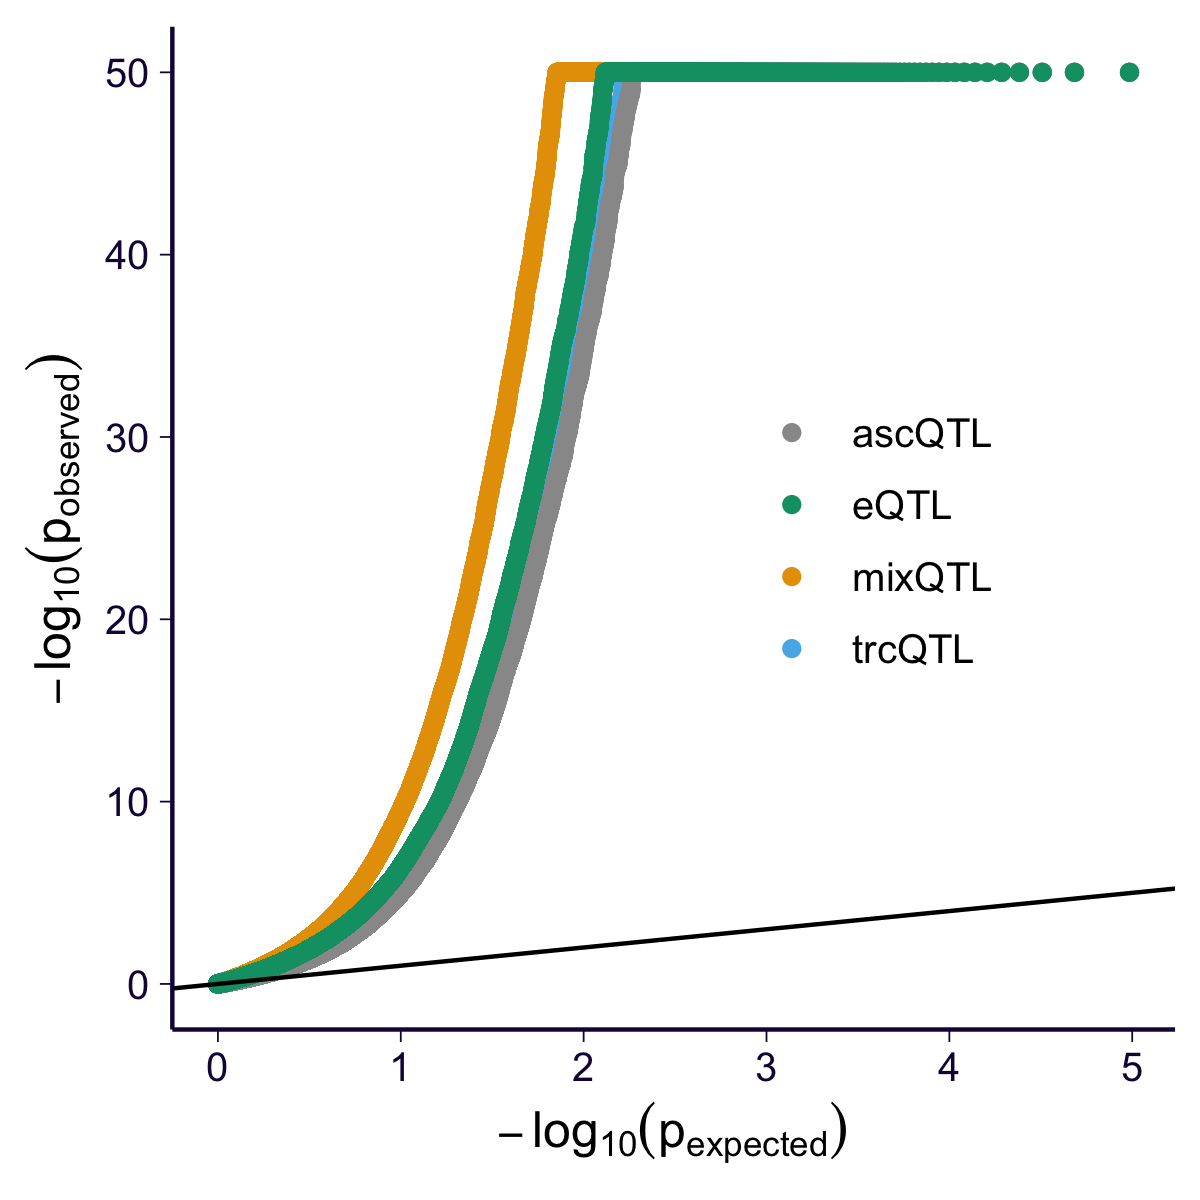
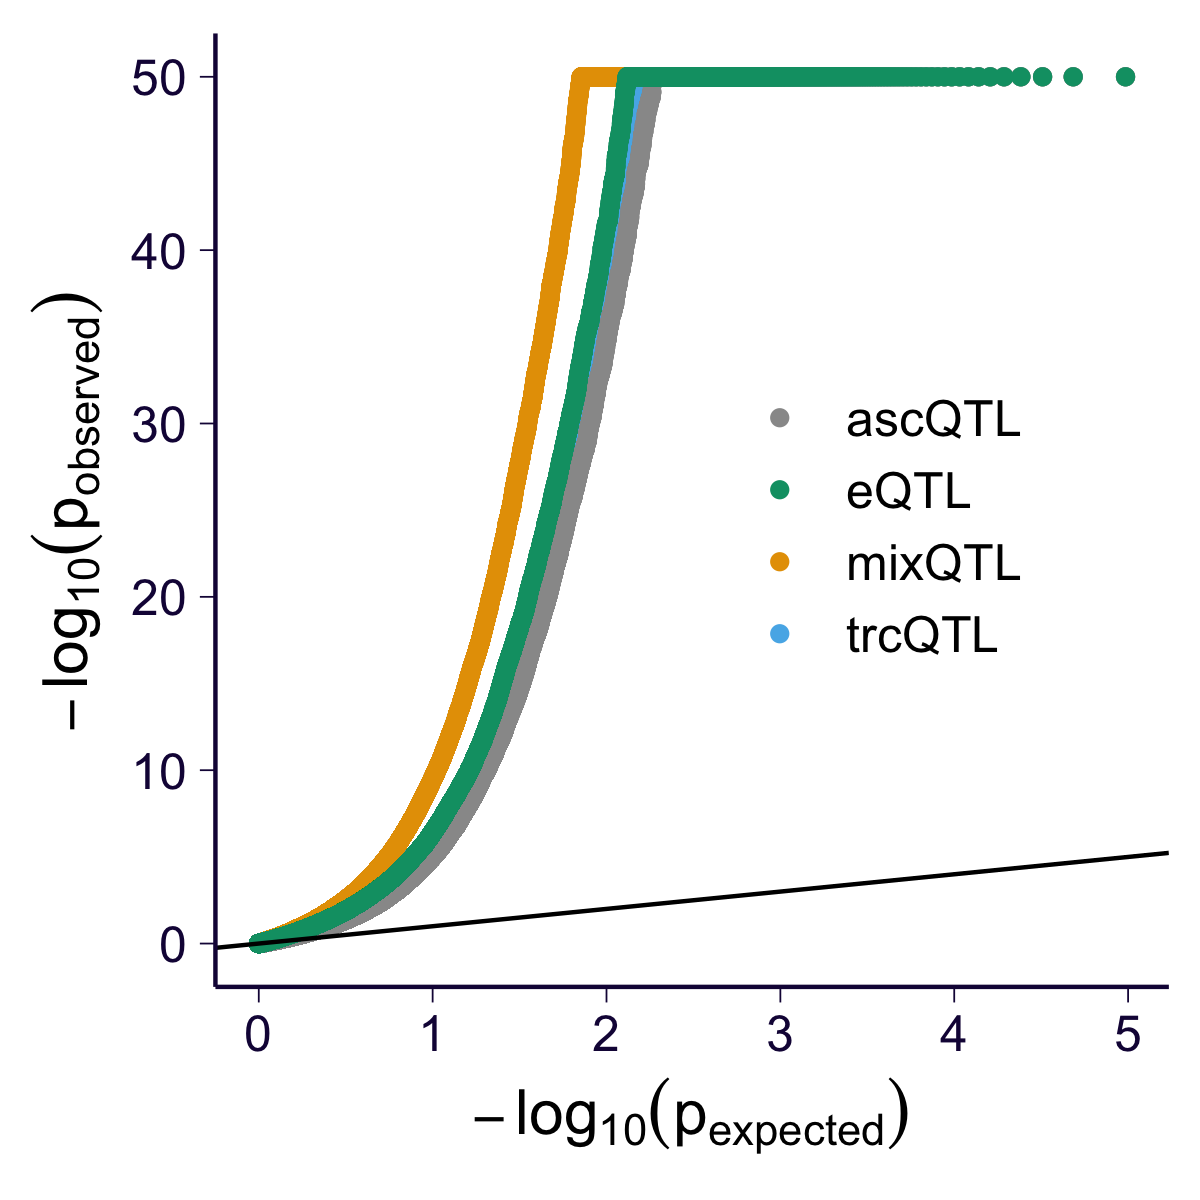
updated eqtlgen plots so that they used eqtl z-score rather than t-stat

diff --git a/docs/gtex_v8_mixqtl_eqtlgen.html b/docs/gtex_v8_mixqtl_eqtlgen.html
@@ -377,9 +377,10 @@ div.tocify {
 <pre class="r"><code>rm(list = ls())
 library(SilverStandardPerformance)  # for ROC/PR plotting
 library(ggplot2)
-theme_set(theme_bw(base_size = 12))
+theme_set(theme_bw(base_size = 15))
 library(dplyr)
 library(reshape2)
+library(pander)
 options(stringsAsFactors = FALSE)
 source(&#39;../code/rlib_analysis.R&#39;)
 datadir = &#39;/Users/yanyul/Desktop/mixqtl-pipeline-results/postprocess-mixqtl&#39;
@@ -415,14 +416,45 @@ for(f in names(fnames)) {
 }
 df_clean = df %&gt;% group_by(gene, variant) %&gt;% summarize(nobs = n()) %&gt;% filter(nobs == 4) %&gt;% ungroup()
 df = df %&gt;% filter(paste(gene, variant) %in% paste(df_clean$gene, df_clean$variant))
-# df$pval[df$method == &#39;metaQTL&#39;] = df$pval[df$method == &#39;metaQTL&#39;]</code></pre>
+# df$pval[df$method == &#39;metaQTL&#39;] = df$pval[df$method == &#39;metaQTL&#39;]
+df %&gt;% group_by(method) %&gt;% summarize(nobs = n()) %&gt;% pander</code></pre>
+<table style="width:25%;">
+<colgroup>
+<col width="12%" />
+<col width="12%" />
+</colgroup>
+<thead>
+<tr class="header">
+<th align="center">method</th>
+<th align="center">nobs</th>
+</tr>
+</thead>
+<tbody>
+<tr class="odd">
+<td align="center">ascQTL</td>
+<td align="center">96660</td>
+</tr>
+<tr class="even">
+<td align="center">eQTL</td>
+<td align="center">96660</td>
+</tr>
+<tr class="odd">
+<td align="center">mixQTL</td>
+<td align="center">96660</td>
+</tr>
+<tr class="even">
+<td align="center">trcQTL</td>
+<td align="center">96660</td>
+</tr>
+</tbody>
+</table>
 </div>
 <div id="qq-plot" class="section level2">
 <h2><span class="header-section-number">1.2</span> QQ-plot</h2>
 <pre class="r"><code>df$pval[is.na(df$pval)] = runif(sum(is.na(df$pval)))
 p = my_qqplot(df$pval, df$method) 
 p = p + geom_abline(intercept = 0, slope = 1)
-p = p + scale_color_manual(values = cbPalette) + theme(legend.position = c(0.7, 0.5), legend.title = element_blank()) + th + theme(aspect.ratio = 1) + ylab(expression(-log[10](p[observed]))) + xlab(expression(-log[10](p[expected])))
+p = p + scale_color_manual(values = cbPalette) + theme(legend.position = c(0.7, 0.5), legend.title = element_blank(), legend.text = element_text(size = 12)) + th + theme(aspect.ratio = 1) + ylab(expression(-log[10](p[observed]))) + xlab(expression(-log[10](p[expected])))
 p$layers[[2]]$aes_params$size = 0.5
 p</code></pre>
 <p><img src="gtex_v8_mixqtl_eqtlgen_files/figure-html/qq-pos-1.png" width="672" /></p>
@@ -436,7 +468,7 @@ for(m in c(&#39;ascQTL&#39;, &#39;trcQTL&#39;, &#39;mixQTL&#39;)) {
   p = my_qqplot(sub$pval, sub$method) 
   p$layers &lt;- c(geom_abline(slope = 1, intercept = 0, color = &#39;lightgray&#39;), p$layers)
   p = p + scale_color_manual(values = cbPalette)
-  p = p + theme(legend.position = c(0.7, 0.5), legend.title = element_blank()) + th + theme(aspect.ratio = 1) + ylab(expression(-log[10](p[observed]))) + xlab(expression(-log[10](p[expected])))
+  p = p + theme(legend.position = c(0.7, 0.5), legend.title = element_blank(), legend.text = element_text(size = 12)) + th + theme(aspect.ratio = 1) + ylab(expression(-log[10](p[observed]))) + xlab(expression(-log[10](p[expected])))
   ggsave(paste0(&#39;../output/gtex-v8-pipeline-eqtl-matrix-with-gene-qc-eqtlgen-positive-&#39;, m, &#39;.png&#39;), p, height = 4, width = 4)
 }</code></pre>
 </div>
@@ -445,17 +477,55 @@ for(m in c(&#39;ascQTL&#39;, &#39;trcQTL&#39;, &#39;mixQTL&#39;)) {
 <pre class="r"><code>dfplot = df %&gt;% mutate(chisq = qchisq(pval, df = 1, lower.tail = F)) %&gt;% select(-pval) %&gt;% filter(method %in% c(&#39;mixQTL&#39;, &#39;eQTL&#39;)) %&gt;% dcast(gene + variant ~ method, value.var = &#39;chisq&#39;)
 p = dfplot %&gt;% ggplot() + 
   geom_point(aes(x = eQTL, y = mixQTL), alpha = 0.5) +
-  geom_point(data = dfplot %&gt;% filter(gene %in% c(&#39;ENSG00000115607&#39;, &#39;ENSG00000145730&#39;)), aes(x = eQTL, y = mixQTL, color = gene)) + 
+  geom_point(data = dfplot %&gt;% filter(gene %in% c(&#39;ENSG00000115607&#39;, &#39;ENSG00000213462&#39;)), aes(x = eQTL, y = mixQTL, color = gene)) + 
   th +
   xlab(expression(paste(chi^2, &#39;(eQTL)&#39;)))+
   ylab(expression(paste(chi^2, &#39;(mixQTL)&#39;))) +
-  theme(legend.position = &#39;bottom&#39;, legend.text = element_text(size = 8)) + 
-  coord_equal()
+  theme(legend.position = c(0.75, 0.15), legend.text = element_text(size = 10), legend.title = element_blank()) + 
+  coord_equal() +
+  geom_abline(slope = 1, intercept = 0, color = &#39;lightgreen&#39;, linetype = 2, size = 1)
 p</code></pre>
 <p><img src="gtex_v8_mixqtl_eqtlgen_files/figure-html/chisq-1.png" width="672" /></p>
-<pre class="r"><code>dfplot %&gt;% summarize(median_eqtl = median(eQTL), median_mixqtl = median(mixQTL)) %&gt;% mutate(ratio = median_mixqtl / median_eqtl)</code></pre>
-<pre><code>##   median_eqtl median_mixqtl    ratio
-## 1     2.58812       3.56258 1.376512</code></pre>
+<pre class="r"><code>dfplot %&gt;% summarize(median_eqtl = median(eQTL), median_mixqtl = median(mixQTL)) %&gt;% mutate(ratio = median_mixqtl / median_eqtl) %&gt;% pander(&#39;ratio of median&#39;)</code></pre>
+<table style="width:53%;">
+<caption>ratio of median</caption>
+<colgroup>
+<col width="19%" />
+<col width="22%" />
+<col width="11%" />
+</colgroup>
+<thead>
+<tr class="header">
+<th align="center">median_eqtl</th>
+<th align="center">median_mixqtl</th>
+<th align="center">ratio</th>
+</tr>
+</thead>
+<tbody>
+<tr class="odd">
+<td align="center">2.588</td>
+<td align="center">3.563</td>
+<td align="center">1.377</td>
+</tr>
+</tbody>
+</table>
+<pre class="r"><code>dfplot %&gt;% mutate(ratio = mixQTL / eQTL) %&gt;% summarize(median_ratio = median(ratio, na.rm = T)) %&gt;% pander(&#39;median of ratio&#39;)</code></pre>
+<table style="width:21%;">
+<caption>median of ratio</caption>
+<colgroup>
+<col width="20%" />
+</colgroup>
+<thead>
+<tr class="header">
+<th align="center">median_ratio</th>
+</tr>
+</thead>
+<tbody>
+<tr class="odd">
+<td align="center">1.289</td>
+</tr>
+</tbody>
+</table>
 <pre class="r"><code>ggsave(paste0(&#39;../output/gtex-v8-pipeline-eqtl-matrix-with-gene-qc-eqtlgen-positive-chisq.png&#39;), p, height = 4, width = 4)</code></pre>
 </div>
 </div>
@@ -479,14 +549,45 @@ for(f in names(fnames)) {
 }
 df_clean = df %&gt;% group_by(gene, variant) %&gt;% summarize(nobs = n()) %&gt;% filter(nobs == 4) %&gt;% ungroup()
 df = df %&gt;% filter(paste(gene, variant) %in% paste(df_clean$gene, df_clean$variant))
-# df$pval[df$method == &#39;metaQTL&#39;] = df$pval[df$method == &#39;metaQTL&#39;]</code></pre>
+# df$pval[df$method == &#39;metaQTL&#39;] = df$pval[df$method == &#39;metaQTL&#39;]
+df %&gt;% group_by(method) %&gt;% summarize(nobs = n()) %&gt;% pander</code></pre>
+<table style="width:25%;">
+<colgroup>
+<col width="12%" />
+<col width="12%" />
+</colgroup>
+<thead>
+<tr class="header">
+<th align="center">method</th>
+<th align="center">nobs</th>
+</tr>
+</thead>
+<tbody>
+<tr class="odd">
+<td align="center">ascQTL</td>
+<td align="center">78691</td>
+</tr>
+<tr class="even">
+<td align="center">eQTL</td>
+<td align="center">78691</td>
+</tr>
+<tr class="odd">
+<td align="center">mixQTL</td>
+<td align="center">78691</td>
+</tr>
+<tr class="even">
+<td align="center">trcQTL</td>
+<td align="center">78691</td>
+</tr>
+</tbody>
+</table>
 </div>
 <div id="qq-plot-1" class="section level2">
 <h2><span class="header-section-number">2.2</span> QQ-plot</h2>
 <pre class="r"><code>df$pval[is.na(df$pval)] = runif(sum(is.na(df$pval)))
 p = my_qqplot(df$pval, df$method) 
 p = p + geom_abline(intercept = 0, slope = 1)
-p = p + scale_color_manual(values = cbPalette) + theme(legend.position = c(0.3, 0.5), legend.title = element_blank()) + th + theme(aspect.ratio = 1) + ylab(expression(-log[10](p[observed]))) + xlab(expression(-log[10](p[expected])))
+p = p + scale_color_manual(values = cbPalette) + theme(legend.position = c(0.3, 0.5), legend.title = element_blank(), legend.text = element_text(size = 12)) + th + theme(aspect.ratio = 1) + ylab(expression(-log[10](p[observed]))) + xlab(expression(-log[10](p[expected])))
 p$layers[[2]]$aes_params$size = 0.5
 p</code></pre>
 <p><img src="gtex_v8_mixqtl_eqtlgen_files/figure-html/qq-neg-1.png" width="672" /></p>
@@ -500,7 +601,7 @@ for(m in c(&#39;ascQTL&#39;, &#39;trcQTL&#39;, &#39;mixQTL&#39;)) {
   p = my_qqplot(sub$pval, sub$method) 
   p$layers &lt;- c(geom_abline(slope = 1, intercept = 0, color = &#39;lightgray&#39;), p$layers)
   p = p + scale_color_manual(values = cbPalette)
-  p = p + theme(legend.position = c(0.3, 0.5), legend.title = element_blank()) + th + theme(aspect.ratio = 1) + ylab(expression(-log[10](p[observed]))) + xlab(expression(-log[10](p[expected])))
+  p = p + theme(legend.position = c(0.3, 0.5), legend.title = element_blank(), legend.text = element_text(size = 12)) + th + theme(aspect.ratio = 1) + ylab(expression(-log[10](p[observed]))) + xlab(expression(-log[10](p[expected])))
   ggsave(paste0(&#39;../output/gtex-v8-pipeline-eqtl-matrix-with-gene-qc-eqtlgen-negative-&#39;, m, &#39;.png&#39;), p, height = 4, width = 4)
 }</code></pre>
 </div>
@@ -520,7 +621,7 @@ cur_eqtl = gen_roc_curve(true_genes = true_eqtls, gene = eqtl$eqtl, score = -log
 e2 = rbind(cur_mix %&gt;% mutate(method = &#39;mixQTL&#39;), cur_eqtl %&gt;% mutate(method = &#39;eQTL&#39;))
 p = e2 %&gt;% ggplot() + geom_abline(intercept = 0, slope = 1, color = &#39;lightgray&#39;) + geom_path(aes(x = fpr, y = tpr, color = method), size = 2, alpha = .8) + coord_equal()
 p = p + th 
-p = p + xlab(&#39;False positive rate&#39;) + ylab(&#39;True positive rate&#39;) + theme(legend.position = c(0.8, 0.2), legend.title = element_blank()) + scale_color_manual(values = cbPalette) 
+p = p + xlab(&#39;False positive rate&#39;) + ylab(&#39;True positive rate&#39;) + theme(legend.position = c(0.8, 0.2), legend.title = element_blank(), legend.text = element_text(size = 12)) + scale_color_manual(values = cbPalette) 
 p</code></pre>
 <p><img src="gtex_v8_mixqtl_eqtlgen_files/figure-html/roc-1.png" width="672" /></p>
 </div>
@@ -531,7 +632,7 @@ cur_eqtl = gen_fdr_power_curve(true_genes = true_eqtls, gene = eqtl$eqtl, score 
 e = rbind(cur_mix %&gt;% mutate(method = &#39;mixQTL&#39;) %&gt;% filter(recall != 0) , cur_eqtl %&gt;% mutate(method = &#39;eQTL&#39;) %&gt;% filter(recall != 0))
 p2 = e %&gt;% ggplot() + geom_path(aes(x = recall, y = precision, color = method), size = 2, alpha = .8) + theme(aspect.ratio = 1)
 p2 = p2 + th 
-p2 = p2 + xlab(&#39;Recall&#39;) + ylab(&#39;Precision&#39;) + theme(legend.position = c(0.2, 0.2), legend.title = element_blank()) + scale_color_manual(values = cbPalette) 
+p2 = p2 + xlab(&#39;Recall&#39;) + ylab(&#39;Precision&#39;) + theme(legend.position = c(0.2, 0.2), legend.title = element_blank(), legend.text = element_text(size = 12)) + scale_color_manual(values = cbPalette) 
 p2</code></pre>
 <p><img src="gtex_v8_mixqtl_eqtlgen_files/figure-html/pr-1.png" width="672" /></p>
 </div>
@@ -574,7 +675,7 @@ roc_c = do.call(rbind, roc_c)
 roc_c$expression_level = factor(roc_c$expression_level, levels = c(&#39;high&#39;, &#39;middle&#39;, &#39;low&#39;))
 p = roc_c %&gt;% ggplot() + geom_abline(intercept = 0, slope = 1, color = &#39;lightgray&#39;) + geom_path(aes(x = fpr, y = tpr, color = method), size = 2, alpha = .8) + facet_wrap(~expression_level) + coord_equal() # + geom_point(aes(x = fpr, y = tpr))
 p = p + th2 
-p = p + xlab(&#39;False positive rate&#39;) + ylab(&#39;True positive rate&#39;) + scale_color_manual(values = cbPalette) + theme(legend.position = &#39;bottom&#39;, legend.title = element_blank())
+p = p + xlab(&#39;False positive rate&#39;) + ylab(&#39;True positive rate&#39;) + scale_color_manual(values = cbPalette) + theme(legend.position = c(0.57, 0.2), legend.title = element_blank(), legend.text = element_text(size = 12))
 p</code></pre>
 <p><img src="gtex_v8_mixqtl_eqtlgen_files/figure-html/roc-by-expr-1.png" width="672" /></p>
 </div>
@@ -596,14 +697,14 @@ pr_c = do.call(rbind, pr_c)
 pr_c$expression_level = factor(pr_c$expression_level, levels = c(&#39;high&#39;, &#39;middle&#39;, &#39;low&#39;))
 p2 = pr_c %&gt;% ggplot()  + geom_path(aes(x = recall, y = precision, color = method), size = 2, alpha = .8) + theme(aspect.ratio = 1) + facet_wrap(~expression_level)
 p2 = p2 + th2 
-p2 = p2 + xlab(&#39;Recall&#39;) + ylab(&#39;Precision&#39;) + theme(legend.position = &#39;bottom&#39;, legend.title = element_blank()) + scale_color_manual(values = cbPalette) 
+p2 = p2 + xlab(&#39;Recall&#39;) + ylab(&#39;Precision&#39;) + theme(legend.position = c(0.45, 0.2), legend.title = element_blank(), legend.text = element_text(size = 12)) + scale_color_manual(values = cbPalette) 
 p2</code></pre>
 <p><img src="gtex_v8_mixqtl_eqtlgen_files/figure-html/pr-by-expr-1.png" width="672" /></p>
 </div>
 <div id="save-rocpr-curves-by-expression-level" class="section level2">
 <h2><span class="header-section-number">4.3</span> Save ROC/PR curves by expression level</h2>
-<pre class="r"><code>ggsave(&#39;../output/gtex-v8-pipeline-eqtl-matrix-with-gene-qc-eqtlgen-roc-stratified.png&#39;, p, width = 10, height = 5)
-ggsave(&#39;../output/gtex-v8-pipeline-eqtl-matrix-with-gene-qc-eqtlgen-pr-stratified.png&#39;, p2, width = 10, height = 5)</code></pre>
+<pre class="r"><code>ggsave(&#39;../output/gtex-v8-pipeline-eqtl-matrix-with-gene-qc-eqtlgen-roc-stratified.png&#39;, p, width = 10, height = 4)
+ggsave(&#39;../output/gtex-v8-pipeline-eqtl-matrix-with-gene-qc-eqtlgen-pr-stratified.png&#39;, p2, width = 10, height = 4)</code></pre>
 </div>
 </div>
 
